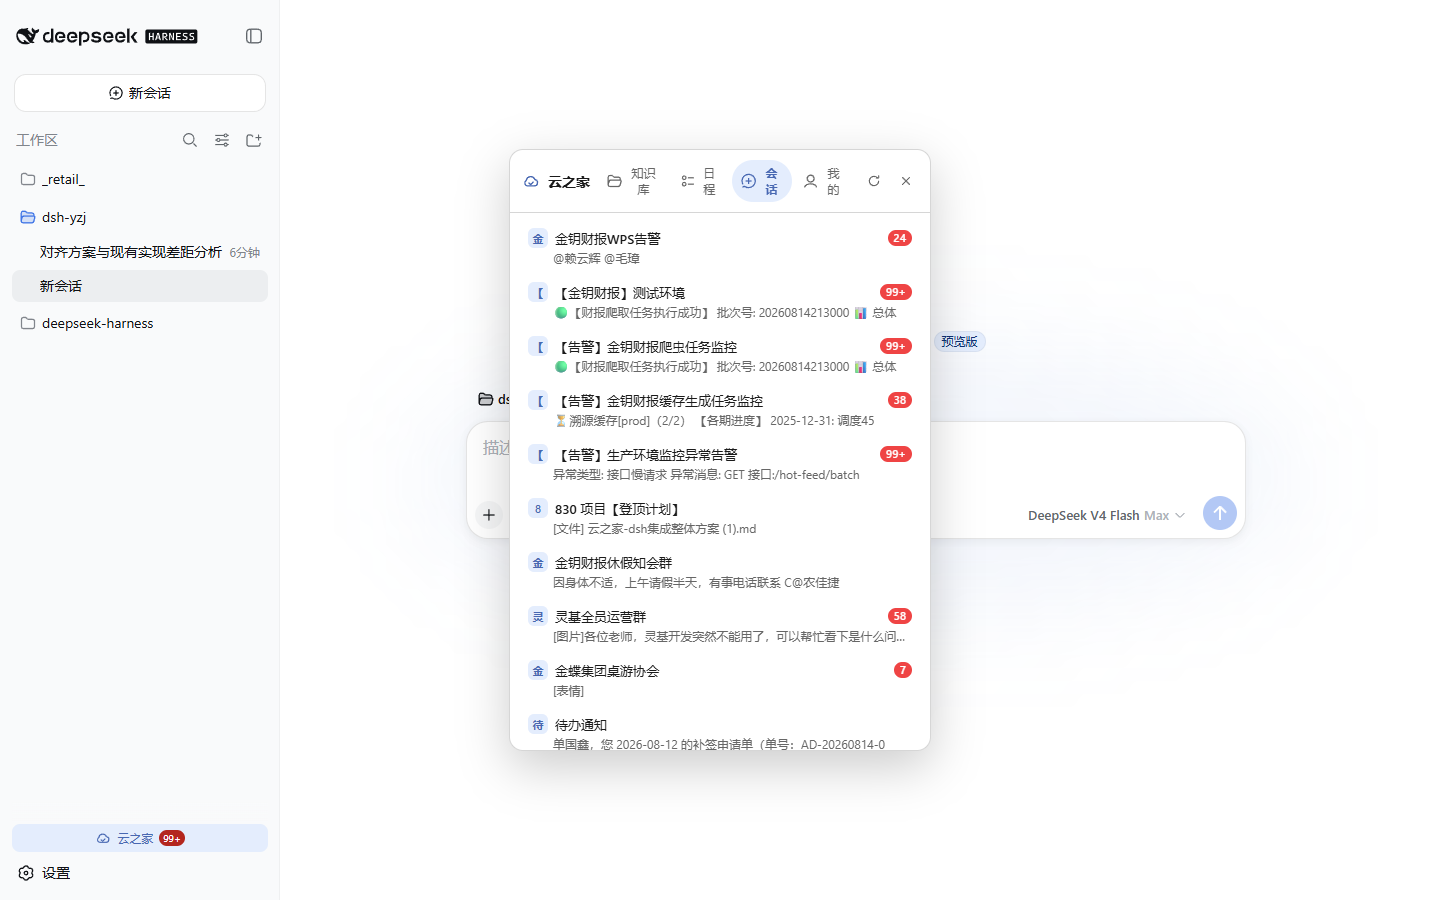
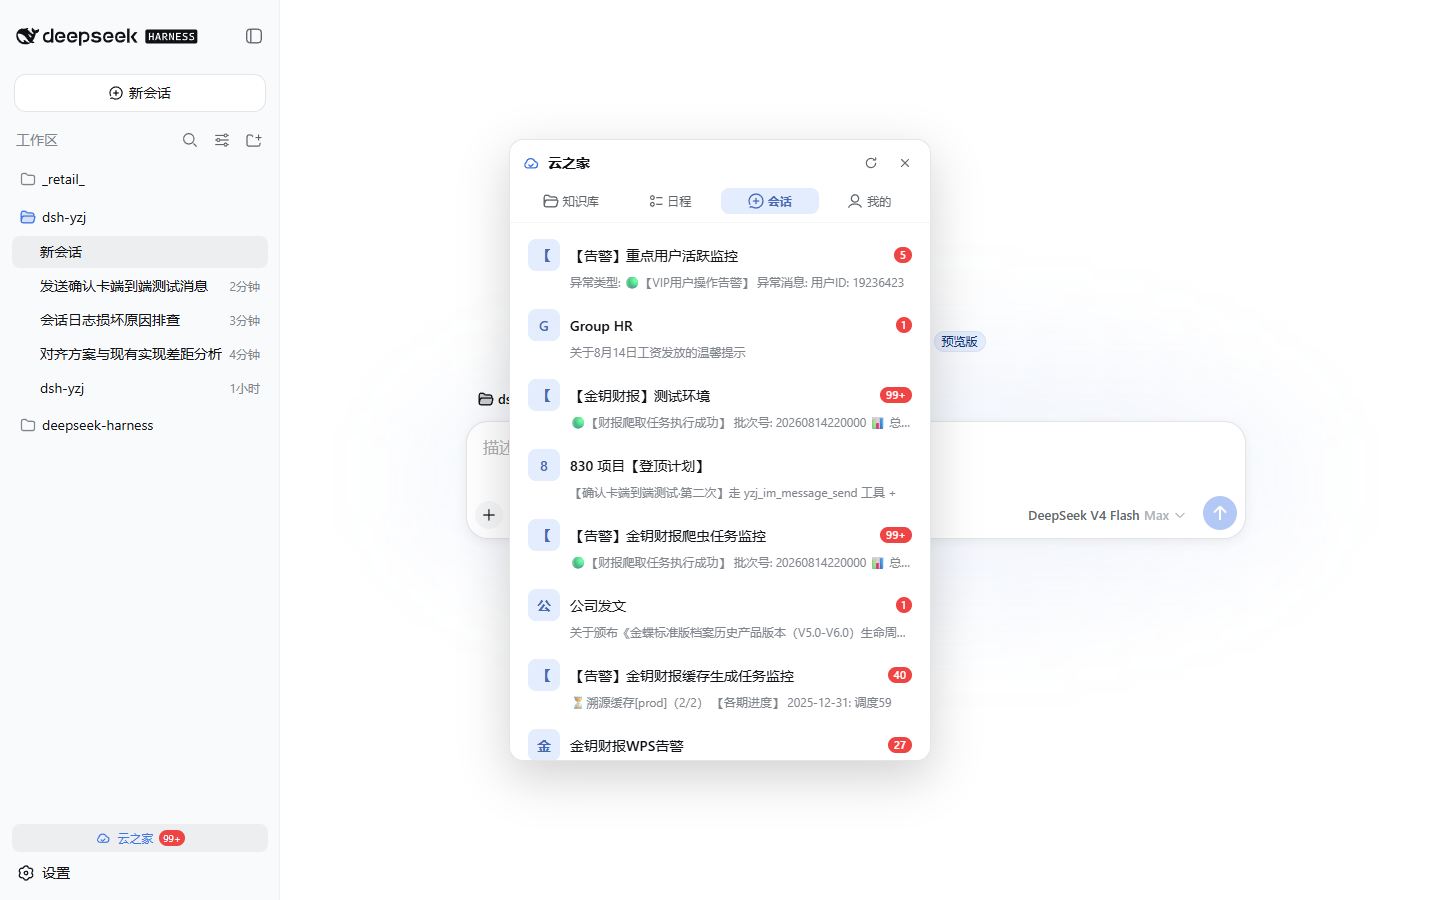
style(ui): 悬浮窗结构重设计（tab 独立栏/头像化条目/消息气泡）
- header 与 tab 栏分层：品牌图标+标题+操作按钮一行，tab 独立成
  segmented pill 栏（等宽、激活品牌色）。
- 列表条目卡片化：glyph 20→32px 圆角块、标题/副文本层级、10px 圆角
  hover 面、条目间距 3px。
- 消息流气泡化：时间+类型元信息行 + 内容气泡卡（bg-layer-1 + 细边框），
  锚点高亮保留。
- 身份卡放大（44px 头像、15px 姓名），搜索输入 focus 品牌边框。
- 验收脚本 tab 选择器随结构更新（header button → nav button）；
  真实数据验收 8/8 无回归；新样式截图 shots-style/。

diff --git a/packages/ui-yzj/src/client/panel.module.css b/packages/ui-yzj/src/client/panel.module.css
@@ -1,7 +1,7 @@
 /*
- * Yunzhijia floating panel + sidebar toggle, aligned to the dsh native
- * visual language: --dsw-alias-* semantic tokens (light/dark adaptive),
- * 14px body text, 8-10px radii, layered borders instead of raw shadows.
+ * Yunzhijia floating panel + sidebar toggle, redesigned on the dsh native
+ * visual language: semantic --dsw-alias-* tokens, 16px rhythm, layered
+ * borders, card-like list entries, chat bubbles for the message stream.
  */
 
 /* Sidebar-foot toggle: a labeled pill in the wide column, a centered rail
@@ -61,7 +61,7 @@
   display: flex;
   flex-direction: column;
   width: min(420px, 100vw);
-  height: min(600px, 100vh);
+  height: min(620px, 100vh);
   margin: auto;
   border: 1px solid var(--dsw-alias-border-l2);
   border-radius: 14px;
@@ -73,12 +73,12 @@
   overflow: hidden;
 }
 
+/* Header row: brand + title + spacer + icon actions. */
 .header {
   display: flex;
   align-items: center;
   gap: 8px;
   padding: 10px 12px;
-  border-bottom: 1px solid var(--dsw-alias-border-l1);
   flex: none;
 }
 
@@ -95,21 +95,29 @@
   flex: none;
 }
 
+.headerSpacer {
+  flex: 1;
+}
+
+/* Tab rail: its own row under the header, pill segmented control. */
 .tabs {
   display: flex;
   gap: 2px;
-  flex: 1;
-  min-width: 0;
+  padding: 2px 12px 8px;
+  border-bottom: 1px solid var(--dsw-alias-border-l1);
+  flex: none;
   overflow: hidden;
 }
 
 .tab {
   display: inline-flex;
   align-items: center;
+  justify-content: center;
   gap: 4px;
-  padding: 5px 9px;
+  flex: 1;
+  padding: 5px 8px;
   border: none;
-  border-radius: 999px;
+  border-radius: 8px;
   background: transparent;
   color: var(--dsw-alias-label-secondary);
   font-size: 12px;
@@ -137,11 +145,11 @@
   display: inline-flex;
   align-items: center;
   justify-content: center;
-  width: 24px;
-  height: 24px;
+  width: 26px;
+  height: 26px;
   padding: 0;
   border: none;
-  border-radius: 6px;
+  border-radius: 7px;
   background: transparent;
   color: var(--dsw-alias-label-secondary);
   cursor: pointer;
@@ -244,16 +252,17 @@
   padding: 8px;
   display: flex;
   flex-direction: column;
-  gap: 2px;
+  gap: 3px;
 }
 
+/* Generic entry: icon block + title + sub, hover-revealed surface. */
 .item {
   display: flex;
   flex-direction: column;
-  gap: 2px;
-  padding: 7px 10px;
+  gap: 3px;
+  padding: 8px 10px;
   border: none;
-  border-radius: 8px;
+  border-radius: 10px;
   background: transparent;
   color: var(--dsw-alias-label-primary);
   font-size: 14px;
@@ -278,7 +287,7 @@
 .itemTitle {
   display: flex;
   align-items: center;
-  gap: 7px;
+  gap: 10px;
   min-width: 0;
   font-weight: 500;
 }
@@ -295,25 +304,25 @@
   color: var(--dsw-alias-label-tertiary);
   font-size: 12px;
   line-height: 16px;
-  padding-left: 27px;
+  padding-left: 42px;
   overflow: hidden;
   text-overflow: ellipsis;
   white-space: nowrap;
 }
 
-/* First-letter glyph blocks (docs, groups, contacts). */
+/* First-letter glyph blocks (docs, groups, contacts) — avatar-sized. */
 .docGlyph,
 .groupGlyph,
 .userGlyph {
   display: inline-flex;
   align-items: center;
   justify-content: center;
-  width: 20px;
-  height: 20px;
-  border-radius: 6px;
+  width: 32px;
+  height: 32px;
+  border-radius: 8px;
   background: var(--dsw-static-deepseek-100);
   color: var(--dsw-static-deepseek-600);
-  font-size: 11px;
+  font-size: 14px;
   font-weight: 600;
   flex: none;
 }
@@ -333,6 +342,44 @@
   outline: 2px solid var(--dsw-static-deepseek-500);
   outline-offset: -1px;
   background: var(--dsw-static-deepseek-100);
+}
+
+/* Chat message bubble: meta row + body. */
+.msgItem {
+  background: var(--dsw-alias-bg-layer-1);
+  border: 1px solid var(--dsw-alias-border-l1);
+}
+
+.msgMeta {
+  display: flex;
+  align-items: baseline;
+  justify-content: space-between;
+  gap: 8px;
+  min-width: 0;
+}
+
+.msgTime {
+  color: var(--dsw-alias-label-caption);
+  font-size: 11px;
+  line-height: 14px;
+  font-variant-numeric: tabular-nums;
+  flex: none;
+}
+
+.msgKind {
+  color: var(--dsw-alias-label-tertiary);
+  font-size: 11px;
+  line-height: 14px;
+  flex: none;
+}
+
+.msgBody {
+  color: var(--dsw-alias-label-primary);
+  font-size: 13px;
+  line-height: 18px;
+  white-space: pre-wrap;
+  word-break: break-word;
+  min-width: 0;
 }
 
 .back {
@@ -381,11 +428,11 @@
   display: flex;
   flex-direction: column;
   align-items: center;
-  gap: 8px;
+  gap: 10px;
   color: var(--dsw-alias-label-tertiary);
   font-size: 12px;
   text-align: center;
-  padding: 40px 0;
+  padding: 44px 0;
 }
 
 /* ── Search + me ─────────────────────────────────────────────────────── */
@@ -393,7 +440,7 @@
 .searchRow {
   display: flex;
   gap: 6px;
-  padding: 8px 10px;
+  padding: 10px 10px 6px;
   flex: none;
 }
 
@@ -406,28 +453,29 @@
   color: var(--dsw-alias-label-primary);
   font-size: 13px;
   outline: none;
-  transition: border-color 120ms var(--ds-ease-in-out, ease);
+  transition: border-color 120ms var(--ds-ease-in-out, ease), background-color 120ms var(--ds-ease-in-out, ease);
 }
 
 .searchInput:focus {
   border-color: var(--dsw-static-deepseek-500);
+  background: var(--dsw-alias-bg-base);
 }
 
 .meCard {
   display: flex;
   align-items: center;
-  gap: 10px;
-  margin: 0 10px 8px;
-  padding: 10px;
+  gap: 12px;
+  margin: 6px 10px 8px;
+  padding: 12px;
   border: 1px solid var(--dsw-alias-border-l2);
-  border-radius: 10px;
+  border-radius: 12px;
   background: var(--dsw-alias-bg-layer-1);
   flex: none;
 }
 
 .meAvatar {
-  width: 38px;
-  height: 38px;
+  width: 44px;
+  height: 44px;
   border-radius: 50%;
   object-fit: cover;
   flex: none;
@@ -437,12 +485,12 @@
   display: inline-flex;
   align-items: center;
   justify-content: center;
-  width: 38px;
-  height: 38px;
+  width: 44px;
+  height: 44px;
   border-radius: 50%;
   background: var(--dsw-static-deepseek-100);
   color: var(--dsw-static-deepseek-600);
-  font-size: 16px;
+  font-size: 18px;
   font-weight: 600;
   flex: none;
 }
@@ -453,9 +501,12 @@
 
 .meName {
   font-weight: 600;
+  font-size: 15px;
 }
 
 .meSub {
   color: var(--dsw-alias-label-tertiary);
   font-size: 12px;
+  line-height: 16px;
+  margin-top: 2px;
 }

diff --git a/packages/ui-yzj/src/client/panel.tsx b/packages/ui-yzj/src/client/panel.tsx
@@ -384,20 +384,7 @@ export function YzjPanel(props: YzjPanelProps) {
       <header className={css.header} onPointerDown={startDrag}>
         <span className={css.brand}><YzjCloudIcon size={18} /></span>
         <span className={css.title}>云之家</span>
-        <nav className={css.tabs} aria-label="云之家功能" onPointerDown={(event) => { event.stopPropagation() }}>
-          {TABS.map(item => (
-            <button
-              key={item.key}
-              type="button"
-              className={tab === item.key ? `${css.tab} ${css.tabActive}` : css.tab}
-              aria-current={tab === item.key ? 'page' : undefined}
-              onClick={() => { props.actions.setTab(item.key) }}
-            >
-              {item.icon()}
-              <span>{item.label}</span>
-            </button>
-          ))}
-        </nav>
+        <span className={css.headerSpacer} />
         <button
           type="button"
           className={css.iconButton}
@@ -420,6 +407,20 @@ export function YzjPanel(props: YzjPanelProps) {
           <IconClose14 />
         </button>
       </header>
+      <nav className={css.tabs} aria-label="云之家功能" onPointerDown={(event) => { event.stopPropagation() }}>
+        {TABS.map(item => (
+          <button
+            key={item.key}
+            type="button"
+            className={tab === item.key ? `${css.tab} ${css.tabActive}` : css.tab}
+            aria-current={tab === item.key ? 'page' : undefined}
+            onClick={() => { props.actions.setTab(item.key) }}
+          >
+            {item.icon()}
+            <span>{item.label}</span>
+          </button>
+        ))}
+      </nav>
 
       {state.error !== '' && (
         <div className={css.error} role="alert">
@@ -614,7 +615,7 @@ export function YzjPanel(props: YzjPanelProps) {
                   <div
                     key={`m${index}`}
                     ref={anchored ? anchorRef : undefined}
-                    className={anchored ? `${css.item} ${css.itemAnchored}` : css.item}
+                    className={anchored ? `${css.item} ${css.msgItem} ${css.itemAnchored}` : `${css.item} ${css.msgItem}`}
                     draggable
                     onDragStart={(event) => {
                       startDragTransfer(event, {
@@ -625,10 +626,11 @@ export function YzjPanel(props: YzjPanelProps) {
                       })
                     }}
                   >
-                    <span className={css.itemTitle}>
-                      <span className={css.itemTitleText}>{content === '' ? `(${msgType === '' ? '消息' : msgType})` : content}</span>
+                    <span className={css.msgMeta}>
+                      <span className={css.msgTime}>{sendTime.slice(5, 16)}</span>
+                      <span className={css.msgKind}>{msgType === '' ? '消息' : msgType}</span>
                     </span>
-                    <span className={css.itemSub}>{sendTime.slice(5, 16)}</span>
+                    <span className={css.msgBody}>{content === '' ? `(${msgType === '' ? '消息' : msgType})` : content}</span>
                   </div>
                 )
               })}
